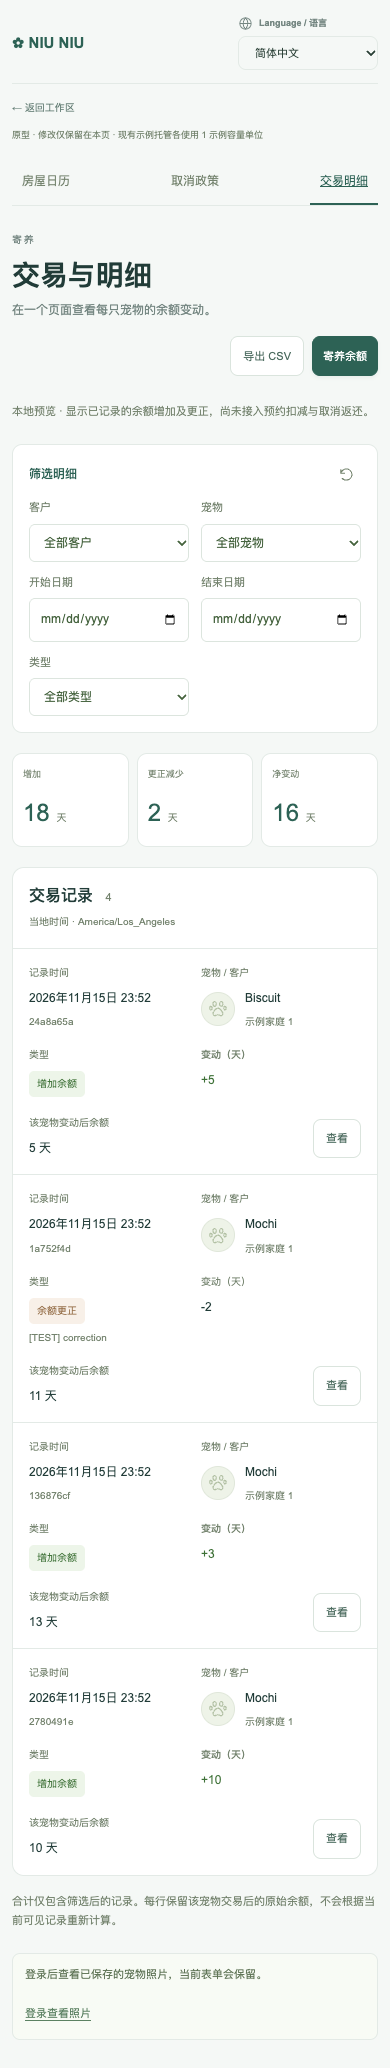
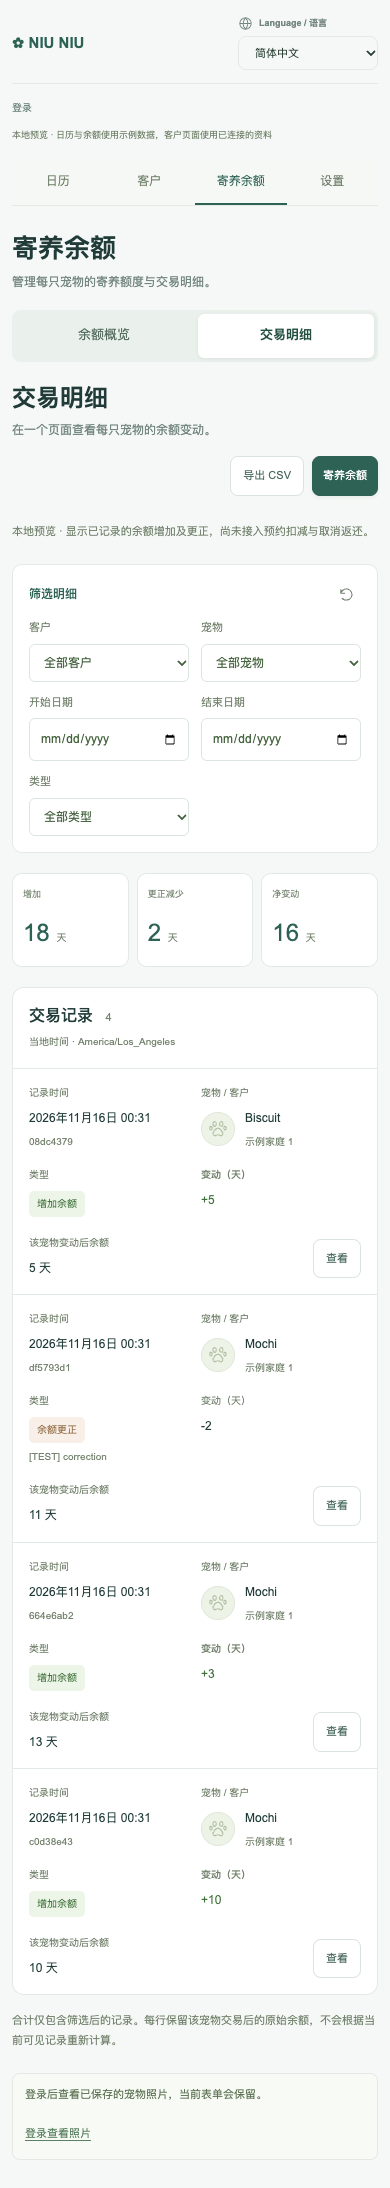
Move statements into Balances and simplify Settings
* Move statements into Balances and simplify Settings

* Record merged balance statement navigation review

diff --git a/apps/web/src/pet-balances.tsx b/apps/web/src/pet-balances.tsx
@@ -5,9 +5,9 @@ import {PetProfileAvatar,PhotoSignIn} from './calendar-pet-photos';
 import UnsavedChanges,{confirmDiscardChanges} from './unsaved-changes';
 import {balanceKey,changePetBalance,plannedDays,validBalanceDates,type BalancePolicyTemplate,type PetBalance,type BalanceService,type BalanceChange,type PlannedCoverage} from './pet-balance';
 export type BalancePet={name:string;customer:string;customerName:string;species:string};
-export default function PetBalances({pets,accounts,plans,initial,onClose,onSave,templates,onSaveTemplate,embedded=false}:{embedded?:boolean;templates:BalancePolicyTemplate[];onSaveTemplate:(template:BalancePolicyTemplate)=>void;pets:BalancePet[];accounts:Record<string,PetBalance>;plans:PlannedCoverage[];initial?:{pet:string;service:BalanceService};onClose:()=>void;onSave:(change:BalanceChange)=>void}){
+export default function PetBalances({pets,accounts,plans,initial,onClose,onSave,templates,onSaveTemplate,embedded=false,onSelectPet}:{onSelectPet?:(pet:string)=>void;embedded?:boolean;templates:BalancePolicyTemplate[];onSaveTemplate:(template:BalancePolicyTemplate)=>void;pets:BalancePet[];accounts:Record<string,PetBalance>;plans:PlannedCoverage[];initial?:{pet:string;service:BalanceService};onClose:()=>void;onSave:(change:BalanceChange)=>void}){
  const {i18n}=useTranslation(),zh=i18n.language==='zh',t=(en:string,cn:string)=>zh?cn:en;
- const [customer,setCustomer]=React.useState(initial?pets.find(p=>p.name===initial.pet)?.customer||'all':'all'),[pet,setPet]=React.useState(initial?.pet||pets[0]?.name||''),[service]=React.useState<BalanceService>('boarding');
+ const [customer,setCustomer]=React.useState(embedded?'all':initial?pets.find(p=>p.name===initial.pet)?.customer||'all':'all'),[pet,setPet]=React.useState(initial?.pet||pets[0]?.name||''),[service]=React.useState<BalanceService>('boarding');
  const [editing,setEditing]=React.useState(false),[mode,setMode]=React.useState('add'),[amount,setAmount]=React.useState(''),[reason,setReason]=React.useState(''),[from,setFrom]=React.useState(''),[through,setThrough]=React.useState(''),[template,setTemplate]=React.useState(''),[templateName,setTemplateName]=React.useState(''),[error,setError]=React.useState('');
  const form=React.useRef<HTMLFormElement>(null),op=React.useRef(''),version=React.useRef(0);
  const account=accounts[balanceKey(pet,service)],planned=plannedDays(plans,pet,service),dirty=editing&&!!(amount||reason||from!==(account?.validFrom||'')||through!==(account?.validThrough||'')||templateName);
@@ -18,9 +18,10 @@ export default function PetBalances({pets,accounts,plans,initial,onClose,onSave,
  function closeEditor(){if(confirmDiscardChanges(i18n.language,form.current))setEditing(false);}
  function save(event:React.FormEvent){event.preventDefault();const delta=(mode==='remove'?-1:1)*Number(amount);const change:BalanceChange={id:op.current,pet,service,version:version.current,delta,reason,validFrom:from,validThrough:through};try{changePetBalance(account,change,plans,new Date().toISOString());onSave(change);setEditing(false);setError('');}catch(e){setError(messages[(e as Error).message]||messages.adjustment);}}
  function saveTemplate(){if(!templateName.trim()||!validBalanceDates(from,through)){setError(t('Name the template and choose a valid date range.','请填写模板名称及有效日期范围。'));return;}const item={id:crypto.randomUUID(),name:templateName.trim(),service,validFrom:from,validThrough:through};onSaveTemplate(item);setTemplate(item.id);setTemplateName('');setError('');}
+ React.useEffect(()=>{onSelectPet?.(pet);},[pet,onSelectPet]);
  const selectedPet=pets.find(p=>p.name===pet);
  const editorForm=<form ref={form} className="hc-settings-form hc-balance-editor" onInvalidCapture={e=>{const policy=(e.target as HTMLElement).closest('details');if(policy)policy.open=true;}} onSubmit={save}><UnsavedChanges active={dirty}/><div className="hc-balance-editor-heading"><h4>{t('Add balance','增加余额')}</h4><p>{t('Boarding credit for this pet.','此宠物的寄养额度。')}</p></div>{error&&<p className="hc-range-feedback" role="alert">{error}</p>}<div className="hc-time-fields">{account&&<label>{t('Adjustment','调整方式')}<select aria-label={t('Adjustment','调整方式')} value={mode} onChange={e=>setMode(e.target.value)}><option value="add">{t('Add days','增加天数')}</option>{account&&<option value="remove">{t('Remove days','减少天数')}</option>}</select></label>}<label>{mode==='remove'?t('Days to remove','减少天数'):t('Days to add','增加天数')}<input aria-label={t('Days','天数')} type="number" required min={account?0:1} step="1" value={amount} onChange={e=>setAmount(e.target.value)}/></label></div><label>{t('Reason (optional)','原因（选填）')}<input aria-label={t('Reason','原因')} maxLength={500} value={reason} onChange={e=>setReason(e.target.value)} placeholder={t('Why is this balance changing?','此次余额调整的原因是什么？')}/></label><details className="hc-balance-policy" key={`${pet}-${service}-${editing}`} open={!account}><summary>{t('Coverage policy','使用规则')}<small>{t('Choose a template or set dates','选择模板或填写日期')}</small></summary><label>{t('Policy template','规则模板')}<select aria-label={t('Policy template','规则模板')} value={template} onChange={e=>{setTemplate(e.target.value);const item=templates.find(p=>p.id===e.target.value);if(item){setFrom(item.validFrom);setThrough(item.validThrough);}}}><option value="">{t('Custom dates','自定义日期')}</option>{templates.filter(p=>p.service===service).map(p=><option key={p.id} value={p.id}>{p.name}</option>)}</select></label><div className="hc-time-fields"><label>{t('Valid from','有效起始日')}<input required type="date" value={from} onChange={e=>{setFrom(e.target.value);setTemplate('');}}/></label><label>{t('Valid through','有效截止日')}<input required type="date" min={from} value={through} onChange={e=>{setThrough(e.target.value);setTemplate('');}}/></label></div><details className="hc-template-create"><summary>{t('Save dates as a template','将日期保存为模板')}</summary><div className="hc-template-save"><label>{t('New template name','新模板名称')}<input maxLength={80} value={templateName} onChange={e=>setTemplateName(e.target.value)} placeholder={t('Name this date range','为此日期范围命名')}/></label><button type="button" className="hc-manage" onClick={saveTemplate}>{t('Save template','保存模板')}</button></div></details><p className="hc-balance-preview">{t('Templates copy dates into this balance. Later changes do not alter other balances.','模板将日期复制到当前余额，后续修改不影响其他余额。')}</p></details><div className="hc-settings-actions"><button className="hc-manage" type="button" onClick={closeEditor}>{t('Cancel','取消')}</button><button className="hc-apply" type="submit">{mode==='remove'?t('Save adjustment','保存调整'):t('Add balance','增加余额')}</button></div></form>;
- const content=<><div className="hc-balance-layout"><aside className="hc-balance-sidebar">{!embedded&&<><PhotoSignIn/><a className="hc-finance-link" href={'#/transactions?pet='+encodeURIComponent(pet)} onClick={e=>{if(window.location.hash==='#/transactions?pet='+encodeURIComponent(pet)){e.preventDefault();leave();}}}>{t('View statement','查看交易明细')} ↗</a><a className="hc-finance-link" href="#/cancellation-policy">{t('Cancellation policy','取消政策')} ↗</a></>}{embedded&&<div className="hc-balance-sidebar-heading"><h2>{t('Pets','宠物')}</h2><span>{pets.filter(p=>customer==='all'||p.customer===customer).length}</span></div>}<label>{t('Customer','客户')}<select aria-label={t('Balance customer','余额客户')} value={customer} onChange={e=>{if(!confirmDiscardChanges(i18n.language,form.current))return;const value=e.target.value;setCustomer(value);setPet(pets.find(p=>value==='all'||p.customer===value)?.name||'');setEditing(false);}}><option value="all">{t('All customers','全部客户')}</option>{[...new Map(pets.map(p=>[p.customer,p.customerName])).entries()].map(([id,name])=><option key={id} value={id}>{name}</option>)}</select></label><div className="hc-balance-pets" role="group" aria-label={t('Choose a pet','选择宠物')}>{pets.filter(p=>customer==='all'||p.customer===customer).map(p=><button type="button" key={p.name} aria-label={`${t('Balance','余额')}: ${p.name}`} aria-pressed={pet===p.name} onClick={()=>switchPet(p.name)}><PetProfileAvatar name={p.name} className="hc-guest-avatar"/><span><strong>{p.name}</strong><small>{p.customerName}</small></span></button>)}</div>{embedded&&<div className="hc-balance-sidebar-footer"><PhotoSignIn/><a className="hc-finance-link" href={'#/transactions?pet='+encodeURIComponent(pet)} onClick={e=>{if(window.location.hash==='#/transactions?pet='+encodeURIComponent(pet)){e.preventDefault();leave();}}}>{t('View statement','查看交易明细')} ↗</a><a className="hc-finance-link" href="#/cancellation-policy">{t('Cancellation policy','取消政策')} ↗</a></div>}</aside>
+ const content=<><div className="hc-balance-layout"><aside className="hc-balance-sidebar">{!embedded&&<><PhotoSignIn/><a className="hc-finance-link" href={'#/balances?view=statement&pet='+encodeURIComponent(pet)} onClick={e=>{if(window.location.hash==='#/balances?view=statement&pet='+encodeURIComponent(pet)){e.preventDefault();leave();}}}>{t('View statement','查看交易明细')} ↗</a><a className="hc-finance-link" href="#/cancellation-policy">{t('Cancellation policy','取消政策')} ↗</a></>}{embedded&&<div className="hc-balance-sidebar-heading"><h2>{t('Pets','宠物')}</h2><span>{pets.filter(p=>customer==='all'||p.customer===customer).length}</span></div>}<label>{t('Customer','客户')}<select aria-label={t('Balance customer','余额客户')} value={customer} onChange={e=>{if(!confirmDiscardChanges(i18n.language,form.current))return;const value=e.target.value;setCustomer(value);setPet(pets.find(p=>value==='all'||p.customer===value)?.name||'');setEditing(false);}}><option value="all">{t('All customers','全部客户')}</option>{[...new Map(pets.map(p=>[p.customer,p.customerName])).entries()].map(([id,name])=><option key={id} value={id}>{name}</option>)}</select></label><div className="hc-balance-pets" role="group" aria-label={t('Choose a pet','选择宠物')}>{pets.filter(p=>customer==='all'||p.customer===customer).map(p=><button type="button" key={p.name} aria-label={`${t('Balance','余额')}: ${p.name}`} aria-pressed={pet===p.name} onClick={()=>switchPet(p.name)}><PetProfileAvatar name={p.name} className="hc-guest-avatar"/><span><strong>{p.name}</strong><small>{p.customerName}</small></span></button>)}</div>{embedded&&<div className="hc-balance-sidebar-footer"><PhotoSignIn/><a className="hc-finance-link" href={'#/balances?view=statement&pet='+encodeURIComponent(pet)} onClick={e=>{if(window.location.hash==='#/balances?view=statement&pet='+encodeURIComponent(pet)){e.preventDefault();leave();}}}>{t('View statement','查看交易明细')} ↗</a><a className="hc-finance-link" href="#/cancellation-policy">{t('Cancellation policy','取消政策')} ↗</a></div>}</aside>
  <section className="hc-balance-content"><div className="hc-balance-title"><div className="hc-balance-pet-heading">{embedded&&<PetProfileAvatar name={pet} className="hc-balance-selected-photo"/>}<div><p>{selectedPet?.customerName}</p><h3>{pet}</h3></div></div>{(!editing||embedded)&&<button className="hc-apply" onClick={open}>{t('Add balance','增加余额')}</button>}</div>
 
  <p className="hc-balance-preview">{t('Planning preview · No payments, deductions or reservations are saved.','规划预览 · 不保存付款、扣减或预留记录。')}</p>

diff --git a/apps/web/src/house-calendar.tsx b/apps/web/src/house-calendar.tsx
@@ -35,7 +35,8 @@ const initialStays:SampleStay[]=[
 const DAY=86400000;
 export default function HouseCalendar({onLanguageChange,customers,personal,account,identityEpoch=0}:{onLanguageChange:(lang:'en'|'zh')=>void;customers?:React.ReactNode;personal?:React.ReactNode;account?:React.ReactNode;identityEpoch?:number}){
  const {i18n}=useTranslation(),zh=i18n.language==='zh',t=(en:string,cn:string)=>zh?cn:en;
- const route=window.location.hash,view=route.split('?')[0]==='#/cancellation-policy'?'policy':route.split('?')[0]==='#/transactions'?'statement':route.split('?')[0]==='#/balances'?'balances':route.split('?')[0]==='#/customers'?'customers':route.split('?')[0]==='#/settings'?'settings':route.split('?')[0]==='#/personal'?'personal':'calendar';
+ const route=window.location.hash,path=route.split('?')[0],routeParams=new URLSearchParams(route.split('?')[1]||''),view=path==='#/cancellation-policy'?'policy':path==='#/transactions'||(path==='#/balances'&&routeParams.get('view')==='statement')?'statement':path==='#/balances'?'balances':path==='#/customers'?'customers':path==='#/settings'?'settings':path==='#/personal'?'personal':'calendar';
+ const [balancePagePet,setBalancePagePet]=React.useState('');
  const [cancellationPolicy,setCancellationPolicy]=React.useState(initialCancellationPolicy);
  const [stays,setStays]=React.useState<Stay[]>(()=>initialStays.map((s,i)=>({...s,id:'sample-'+i,units:1})));
  const [locations,setLocations]=React.useState([{id:1,rooms:[1,2,3]},{id:2,rooms:[1,2]}]);
@@ -89,13 +90,13 @@ export default function HouseCalendar({onLanguageChange,customers,personal,accou
  {account}
  <p className="hc-demo">{t('Local preview · Calendar and balances use sample data. Customers use connected records.','本地预览 · 日历与余额使用示例数据，客户页面使用已连接的资料')}</p>
  <nav className="hc-work-nav" aria-label={t('Workspace','工作区')}>{[
- ['#/house-calendar','Calendar','日历','calendar'],['#/customers','Customers','客户','customers'],['#/balances','Balances','寄养余额','balances'],['#/transactions','Statement','交易明细','statement'],['#/settings','Settings','设置','settings']
- ].map(([href,en,cn,key])=><a key={key} href={href} aria-current={view===key||(key==='settings'&&view==='policy')?'page':undefined}>{t(en,cn)}</a>)}</nav>
+ ['#/house-calendar','Calendar','日历','calendar'],['#/customers','Customers','客户','customers'],['#/balances','Balances','寄养余额','balances'],['#/settings','Settings','设置','settings']
+ ].map(([href,en,cn,key])=><a key={key} href={href} aria-current={view===key||(key==='balances'&&view==='statement')||(key==='settings'&&view==='policy')?'page':undefined}>{t(en,cn)}</a>)}</nav>
  <div data-retained-workspace hidden={view!=='customers'}>{customers||<a className="hc-manage" href="#/login">{t('Sign in to manage customers','登录以管理客户')}</a>}</div>
  <div data-retained-workspace hidden={view!=='personal'}><h1>{t('My profile and pets','我的资料与宠物')}</h1>{personal}</div>
- {view==='balances'&&<section><div className="hc-title"><div><h1>{t('Balances','寄养余额')}</h1><p>{t('Boarding credits and adjustments for each pet.','管理每只宠物的寄养额度与调整。')}</p></div></div><PetBalances embedded templates={balanceTemplates} onSaveTemplate={item=>setBalanceTemplates(previous=>[...previous,item])} pets={roster} accounts={balances} plans={balancePlans} onClose={()=>{}} onSave={saveBalance}/></section>}
- <div hidden={view!=='settings'}><div className="hc-title"><div><h1>{t('Settings','设置')}</h1><p>{t('Manage locations and boarding rules.','管理房屋及寄养规则。')}</p></div></div><div className="hc-settings-cards"><section><h2>{t('Houses and rooms','房屋与房间')}</h2><p>{t('Saved houses are separate from the sample calendar. Room setup is still in progress.','保存的房屋与示例日历分开，房间设置仍在开发中。')}</p>{admin?<button className="hc-manage" onClick={()=>setManage(true)}>{t('Manage houses and rooms','管理房屋与房间')}</button>:<a href="#/login">{t('Sign in to manage houses','登录以管理房屋')}</a>}</section><section><h2>{t('Cancellation policy','取消政策')}</h2><p>{t('Review notice periods and credit restoration terms.','查看取消期限及额度返还规则。')}</p><a className="hc-manage" href="#/cancellation-policy">{t('Cancellation policy','取消政策')}</a></section></div></div>
- {view==='statement'&&<BoardingStatement key={route} accounts={balances} pets={roster} initialPet={new URLSearchParams(route.split('?')[1]||'').get('pet')||undefined} onManageBalance={pet=>setBalanceView({pet,service:'boarding'})}/>}
+ {(view==='balances'||view==='statement')&&<section className="hc-balances-workspace"><div className="hc-title"><div><h1>{t('Balances','寄养余额')}</h1><p>{t('Boarding credits and statements for each pet.','管理每只宠物的寄养额度与交易明细。')}</p></div></div><nav className="hc-balance-views" aria-label={t('Balance views','余额视图')}><a href={'#/balances'+(balancePagePet?'?pet='+encodeURIComponent(balancePagePet):'')} aria-current={view==='balances'?'page':undefined}>{t('Overview','余额概览')}</a><a href="#/balances?view=statement" aria-current={view==='statement'?'page':undefined}>{t('Statement','交易明细')}</a></nav>{view==='balances'?<PetBalances embedded templates={balanceTemplates} onSaveTemplate={item=>setBalanceTemplates(previous=>[...previous,item])} pets={roster} accounts={balances} plans={balancePlans} initial={{pet:routeParams.get('pet')||balancePagePet,service:'boarding'}} onSelectPet={setBalancePagePet} onClose={()=>{}} onSave={saveBalance}/>:<BoardingStatement embedded key={route} accounts={balances} pets={roster} initialPet={routeParams.get('pet')||undefined} onManageBalance={pet=>setBalanceView({pet,service:'boarding'})}/>}</section>}
+ <div hidden={view!=='settings'}><div className="hc-title"><div><h1>{t('Settings','设置')}</h1><p>{t('Manage boarding rules.','管理寄养规则。')}</p></div></div><div className="hc-settings-cards"><section><h2>{t('Cancellation policy','取消政策')}</h2><p>{t('Review notice periods and credit restoration terms.','查看取消期限及额度返还规则。')}</p><a className="hc-manage" href="#/cancellation-policy">{t('Cancellation policy','取消政策')}</a></section></div></div>
+
  {view==='policy'&&<CancellationPolicyPage policy={cancellationPolicy} onSave={setCancellationPolicy}/>}
  <div hidden={view!=='calendar'}>
  <div className="hc-title"><div><h1>{t('House calendar','房屋日历')}</h1><p>{t('Stays and check-ins, by room.','按房间查看托管与入住。')}</p></div><div className="hc-title-actions"><div className="hc-main-actions"><button className="hc-manage" onClick={()=>setBalanceView({pet:'',service:'boarding'})}>{t('Boarding balances','寄养余额')}</button><button className="hc-apply hc-add-placement" onClick={()=>setAssignment(null)}><Icon name="plus"/>{t('Add pet to room','添加宠物到房间')}</button><button className="hc-manage hc-add-house" title={t('Add house','添加房屋')} aria-label={t('Add house','添加房屋')} onClick={()=>setSettings({house:nextId.current++,creating:true})}><Icon name="plus"/>{t('Add house','添加房屋')}</button>{admin?<button className="hc-settings hc-top-icon" title={t('Manage houses & rooms','管理房屋与房间')} aria-label={t('Manage houses & rooms','管理房屋与房间')} onClick={()=>setManage(true)}><Icon name="settings"/></button>:<a className="hc-manage" href="#/login">{t('Sign in to manage houses','登录以管理房屋')}</a>}</div><div className="hc-live"><span/> {t('Local time','当地时间')} · {now.toLocaleTimeString(locale,{hour:'2-digit',minute:'2-digit'})}<small>{t('Sample timezone','示例时区')}: {Intl.DateTimeFormat().resolvedOptions().timeZone}</small></div></div></div>

diff --git a/apps/web/src/boarding-statement-page.tsx b/apps/web/src/boarding-statement-page.tsx
@@ -5,14 +5,14 @@ import {statementEntries,filterStatement,statementTotals,statementCsv,validState
 import {PetProfileAvatar,CalendarPhotoCredits} from './calendar-pet-photos';
 import Icon from './icons';
 import Modal from './modal';
-export default function BoardingStatement({accounts,pets,initialPet,onManageBalance}:{accounts:Record<string,PetBalance>;pets:StatementPet[];initialPet?:string;onManageBalance:(pet:string)=>void}){
+export default function BoardingStatement({accounts,pets,initialPet,onManageBalance,embedded=false}:{embedded?:boolean;accounts:Record<string,PetBalance>;pets:StatementPet[];initialPet?:string;onManageBalance:(pet:string)=>void}){
  const {i18n}=useTranslation(),zh=i18n.language==='zh',t=(en:string,cn:string)=>zh?cn:en,locale=zh?'zh-CN':'en-US';
  const [filters,setFilters]=React.useState(()=>({...emptyStatementFilters,pet:pets.some(p=>p.name===initialPet)?initialPet!:'all'})),[selected,setSelected]=React.useState<StatementEntry|null>(null);
  const entries=statementEntries(accounts,pets),rows=filterStatement(entries,filters),totals=statementTotals(rows),valid=validStatementRange(filters.from,filters.through),filtered=JSON.stringify(filters)!==JSON.stringify(emptyStatementFilters);
  const labels:Record<StatementKind,string>={added:t('Balance added','增加余额'),correction:t('Balance correction','余额更正'),terms:t('Policy update','规则更新')};
  const number=(value:number)=>value.toLocaleString(locale),time=(value:string)=>new Date(value).toLocaleString(locale,{year:'numeric',month:'short',day:'numeric',hour:'2-digit',minute:'2-digit'});
  function download(){const csv=statementCsv(rows,[t('Recorded at (UTC)','记录时间（UTC）'),t('Reference','流水号'),t('Customer','客户'),t('Pet','宠物'),t('Activity','类型'),t('Change (days)','变动（天）'),t('Before (days)','变动前（天）'),t('After (days)','变动后（天）'),t('Note','备注')],labels);const url=URL.createObjectURL(new Blob([csv],{type:'text/csv;charset=utf-8'}));const link=document.createElement('a');link.href=url;link.download='boarding-statement-'+new Date().toISOString().slice(0,10)+'.csv';link.click();setTimeout(()=>URL.revokeObjectURL(url),1000);}
- return <section className="hc-finance-page hc-statement-page"><div className="hc-title"><div><p className="hc-page-eyebrow">{t('BOARDING','寄养')}</p><h1>{t('Transactions & statement','交易与明细')}</h1><p>{t('Balance activity for every pet, in one place.','在一个页面查看每只宠物的余额变动。')}</p></div><div className="hc-statement-actions"><button className="hc-manage" disabled={!rows.length||!valid} onClick={download}>{t('Export CSV','导出 CSV')}</button><button className="hc-apply" onClick={()=>onManageBalance(filters.pet==='all'?'':filters.pet)}>{t('Boarding balances','寄养余额')}</button></div></div>
+ return <section className="hc-finance-page hc-statement-page"><div className="hc-title"><div>{!embedded&&<p className="hc-page-eyebrow">{t('BOARDING','寄养')}</p>}{embedded?<h2>{t('Statement','交易明细')}</h2>:<h1>{t('Statement','交易明细')}</h1>}<p>{t('Balance activity for every pet, in one place.','在一个页面查看每只宠物的余额变动。')}</p></div><div className="hc-statement-actions"><button className="hc-manage" disabled={!rows.length||!valid} onClick={download}>{t('Export CSV','导出 CSV')}</button><button className="hc-apply" onClick={()=>onManageBalance(filters.pet==='all'?'':filters.pet)}>{t('Boarding balances','寄养余额')}</button></div></div>
  <p className="hc-statement-note">{t('Local preview · Recorded balance additions and corrections. Booking charges and cancellation restorations are not connected yet.','本地预览 · 显示已记录的余额增加及更正，尚未接入预约扣减与取消返还。')}</p>
  <section className="hc-statement-filters" aria-label={t('Statement filters','明细筛选')}><div className="hc-filters-heading"><h2>{t('Filter statement','筛选明细')}</h2><button className="hc-clear" aria-label={t('Reset statement filters','重置明细筛选')} title={t('Reset statement filters','重置明细筛选')} disabled={!filtered} onClick={()=>setFilters({...emptyStatementFilters})}><Icon name="reset"/></button></div><div><label>{t('Customer','客户')}<select aria-label={t('Statement customer','明细客户')} value={filters.customer} onChange={e=>setFilters({...filters,customer:e.target.value,pet:'all'})}><option value="all">{t('All customers','全部客户')}</option>{[...new Map(pets.map(p=>[p.customer,p.customerName])).entries()].map(([id,name])=><option key={id} value={id}>{name}</option>)}</select></label><label>{t('Pet','宠物')}<select aria-label={t('Statement pet','明细宠物')} value={filters.pet} onChange={e=>setFilters({...filters,pet:e.target.value})}><option value="all">{t('All pets','全部宠物')}</option>{pets.filter(p=>filters.customer==='all'||p.customer===filters.customer).map(p=><option key={p.name} value={p.name}>{p.name}</option>)}</select></label><label>{t('From','开始日期')}<input aria-label={t('Statement from','明细开始日期')} type="date" value={filters.from} onChange={e=>setFilters({...filters,from:e.target.value})}/></label><label>{t('Through','结束日期')}<input aria-label={t('Statement through','明细结束日期')} type="date" value={filters.through} onChange={e=>setFilters({...filters,through:e.target.value})}/></label><label>{t('Activity','类型')}<select aria-label={t('Statement activity','明细类型')} value={filters.kind} onChange={e=>setFilters({...filters,kind:e.target.value})}><option value="all">{t('All activity','全部类型')}</option>{Object.entries(labels).map(([key,label])=><option key={key} value={key}>{label}</option>)}</select></label></div>{!valid&&<p role="alert" className="hc-range-feedback">{t('Choose a valid date range with the start on or before the end.','请选择有效日期范围，开始日期不能晚于结束日期。')}</p>}</section>
  <div className="hc-statement-totals" aria-label={t('Filtered totals','筛选后合计')}><div><small>{t('Added','增加')}</small><strong>{valid?number(totals.added):'—'} <span>{t('days','天')}</span></strong></div><div><small>{t('Removed by corrections','更正减少')}</small><strong>{valid?number(totals.removed):'—'} <span>{t('days','天')}</span></strong></div><div><small>{t('Net change','净变动')}</small><strong>{valid?number(totals.net):'—'} <span>{t('days','天')}</span></strong></div></div>

diff --git a/tests/browser/boarding-statement.spec.ts b/tests/browser/boarding-statement.spec.ts
@@ -4,7 +4,7 @@ test('statement shows recorded per-pet changes, exports filtered rows and preser
  await page.setViewportSize({width:1440,height:1050});await page.goto('/#/house-calendar');await page.getByRole('button',{name:'Boarding balances',exact:true}).click();
  const add=async(days:string)=>{await page.getByRole('button',{name:'Add balance',exact:true}).click();await page.getByLabel('Days',{exact:true}).fill(days);if(await page.getByLabel('Valid from',{exact:true}).isVisible()){await page.getByLabel('Valid from',{exact:true}).fill('2026-01-01');await page.getByLabel('Valid through',{exact:true}).fill('2027-12-31');}await page.getByRole('button',{name:'Add balance',exact:true}).click();};
  await add('10');await add('3');await page.getByRole('button',{name:'Add balance',exact:true}).click();await page.getByLabel('Adjustment',{exact:true}).selectOption('remove');await page.getByLabel('Days',{exact:true}).fill('2');await page.getByLabel('Reason',{exact:true}).fill('[TEST] correction');await page.getByRole('button',{name:'Save adjustment',exact:true}).click();
- await page.getByRole('button',{name:'Balance: Biscuit',exact:true}).click();await add('5');await page.getByRole('button',{name:'Balance: Mochi',exact:true}).click();await page.getByRole('link',{name:'View statement'}).click();await expect(page.getByRole('heading',{name:'Transactions & statement',exact:true})).toBeVisible();await expect(page.getByLabel('Statement pet',{exact:true})).toHaveValue('Mochi');await expect(page.locator('.hc-statement-row')).toHaveCount(3);
+ await page.getByRole('button',{name:'Balance: Biscuit',exact:true}).click();await add('5');await page.getByRole('button',{name:'Balance: Mochi',exact:true}).click();await page.getByRole('link',{name:'View statement'}).click();await expect(page.getByRole('heading',{name:'Statement',exact:true})).toBeVisible();await expect(page).toHaveURL(/#\/balances\?view=statement&pet=Mochi$/);await expect(page.getByRole('navigation',{name:'Workspace'}).getByRole('link',{name:'Balances',exact:true})).toHaveAttribute('aria-current','page');await expect(page.getByLabel('Statement pet',{exact:true})).toHaveValue('Mochi');await expect(page.locator('.hc-statement-row')).toHaveCount(3);
  await page.getByLabel('Statement activity',{exact:true}).selectOption('correction');await expect(page.locator('.hc-statement-row')).toHaveCount(1);await expect(page.locator('.hc-statement-row td').nth(4)).toHaveText('11 days');
  await page.getByRole('button',{name:/View transaction:/}).click();await expect(page.getByRole('dialog').getByText('13 → 11 days',{exact:true})).toBeVisible();await expect(page.getByRole('dialog').getByText('[TEST] correction',{exact:true})).toBeVisible();await page.getByRole('button',{name:'Close',exact:true}).click();
  const downloadEvent=page.waitForEvent('download');await page.getByRole('button',{name:'Export CSV',exact:true}).click();const download=await downloadEvent;const csv=await readFile((await download.path())!,'utf8');expect(csv).toContain('"Balance correction",-2,13,11');expect(csv).not.toContain('Biscuit');
@@ -12,6 +12,6 @@ test('statement shows recorded per-pet changes, exports filtered rows and preser
  await page.setViewportSize({width:820,height:1000});expect(await page.evaluate(()=>document.documentElement.scrollWidth<=innerWidth)).toBe(true);
  await page.getByLabel('Statement customer',{exact:true}).selectOption('2');await expect(page.getByRole('heading',{name:'No matching transactions',exact:true})).toBeVisible();await page.getByRole('button',{name:'Clear filters',exact:true}).click();
  await page.getByLabel('Statement from',{exact:true}).fill('2027-01-02');await page.getByLabel('Statement through',{exact:true}).fill('2027-01-01');await expect(page.getByRole('alert')).toBeVisible();await expect(page.getByRole('button',{name:'Export CSV',exact:true})).toBeDisabled();await page.getByRole('button',{name:'Reset statement filters',exact:true}).click();
- await page.getByRole('link',{name:'Settings',exact:true}).click();await page.getByRole('link',{name:'Cancellation policy',exact:true}).click();await page.getByRole('link',{name:'Statement',exact:true}).click();await expect(page.locator('.hc-statement-row')).toHaveCount(4);
- await page.setViewportSize({width:390,height:844});await page.locator('.language-selector select').selectOption('zh');await expect(page.getByRole('heading',{name:'交易与明细',exact:true})).toBeVisible();expect(await page.evaluate(()=>document.documentElement.scrollWidth<=innerWidth)).toBe(true);await page.screenshot({path:'test-results/boarding-statement-mobile-zh.png',fullPage:true});
+ await page.getByRole('link',{name:'Settings',exact:true}).click();await page.getByRole('link',{name:'Cancellation policy',exact:true}).click();await page.getByRole('navigation',{name:'Workspace'}).getByRole('link',{name:'Balances',exact:true}).click();await page.getByRole('navigation',{name:'Balance views'}).getByRole('link',{name:'Statement',exact:true}).click();await expect(page.locator('.hc-statement-row')).toHaveCount(4);
+ await page.setViewportSize({width:390,height:844});await page.locator('.language-selector select').selectOption('zh');await expect(page.getByRole('heading',{name:'交易明细',exact:true})).toBeVisible();expect(await page.evaluate(()=>document.documentElement.scrollWidth<=innerWidth)).toBe(true);await page.screenshot({path:'test-results/boarding-statement-mobile-zh.png',fullPage:true});
 });

diff --git a/tests/browser/integrated-workspace.spec.ts b/tests/browser/integrated-workspace.spec.ts
@@ -1,6 +1,6 @@
 import {test,expect} from '@playwright/test';
 
-test('five ordered tabs connect customer records, balance preview, statement and settings',async({page,request})=>{
+test('four ordered tabs connect customer records, balance preview, statement and settings',async({page,request})=>{
  const email=`integrated-${Date.now()}@example.test`;
  const signup=await request.post('http://127.0.0.1:9099/identitytoolkit.googleapis.com/v1/accounts:signUp?key=demo-key',{data:{email,password:'emulator-only-password',returnSecureToken:true}});
  const {localId}=await signup.json();
@@ -11,7 +11,7 @@ test('five ordered tabs connect customer records, balance preview, statement and
  await page.goto('/#/login');
  await page.evaluate(async({email})=>{const {auth}=await import('/apps/web/src/auth-client.ts');const {signInWithEmailAndPassword}=await import('/node_modules/.vite/deps/firebase_auth.js');await signInWithEmailAndPassword(auth,email,'emulator-only-password');},{email});
  const nav=page.getByRole('navigation',{name:'Workspace',exact:true});
- await expect(nav.getByRole('link')).toHaveText(['Calendar','Customers','Balances','Statement','Settings']);
+ await expect(nav.getByRole('link')).toHaveText(['Calendar','Customers','Balances','Settings']);
  await expect(nav.getByRole('link',{name:'Calendar',exact:true})).toHaveAttribute('aria-current','page');
  await nav.getByRole('link',{name:'Balances',exact:true}).click();
  await expect(page.getByRole('heading',{name:'Balances',exact:true})).toBeVisible();
@@ -23,15 +23,15 @@ test('five ordered tabs connect customer records, balance preview, statement and
  await page.getByRole('dialog').getByRole('button',{name:'Add balance',exact:true}).click();
  await nav.getByRole('link',{name:'Customers',exact:true}).click();await expect(page.getByRole('button',{name:'Add customer',exact:true})).toBeVisible();
  await page.getByRole('link',{name:'My profile and pets',exact:true}).click();await page.getByRole('textbox',{name:'Your name',exact:true}).fill('Retained draft');
- await nav.getByRole('link',{name:'Settings',exact:true}).click();await page.getByRole('link',{name:'Cancellation policy',exact:true}).click();
+ await nav.getByRole('link',{name:'Settings',exact:true}).click();await expect(page.getByRole('heading',{name:'Houses and rooms',exact:true})).toHaveCount(0);await page.getByRole('link',{name:'Cancellation policy',exact:true}).click();
  await expect(nav.getByRole('link',{name:'Settings',exact:true})).toHaveAttribute('aria-current','page');
- await nav.getByRole('link',{name:'Statement',exact:true}).click();await expect(page.locator('.hc-statement-row')).toHaveCount(1);await expect(page.locator('.hc-statement-row')).toContainText('12 days');
+ await nav.getByRole('link',{name:'Balances',exact:true}).click();await page.getByRole('navigation',{name:'Balance views',exact:true}).getByRole('link',{name:'Statement',exact:true}).click();await expect(page.locator('.hc-statement-row')).toHaveCount(1);await expect(page.locator('.hc-statement-row')).toContainText('12 days');
  await nav.getByRole('link',{name:'Balances',exact:true}).click();await expect(page.locator('.hc-balance-metrics strong').first()).toHaveText('12');
  await page.getByRole('link',{name:'My profile and pets',exact:true}).click();await expect(page.getByRole('textbox',{name:'Your name',exact:true})).toHaveValue('Retained draft');
  await page.getByRole('textbox',{name:'Your name',exact:true}).fill('');
  await page.setViewportSize({width:1440,height:1000});await nav.getByRole('link',{name:'Settings',exact:true}).click();await page.screenshot({path:'test-results/integrated-workspace-desktop.png',fullPage:true});
  await page.setViewportSize({width:390,height:844});await page.getByRole('combobox',{name:'Language / 语言',exact:true}).selectOption('zh');
- await expect(page.getByRole('navigation').getByRole('link')).toHaveText(['日历','客户','寄养余额','交易明细','设置']);
+ await expect(page.getByRole('navigation').getByRole('link')).toHaveText(['日历','客户','寄养余额','设置']);
  expect(await page.evaluate(()=>document.documentElement.scrollWidth<=innerWidth)).toBe(true);
  await page.screenshot({path:'test-results/integrated-workspace-mobile-zh.png',fullPage:true});
 });

diff --git a/apps/web/src/house-calendar.css b/apps/web/src/house-calendar.css
@@ -175,7 +175,7 @@
 .hc-statement-filters .hc-filters-heading{flex-direction:row}.hc-statement-table-wrap{overflow-x:auto}.hc-statement-table{min-width:760px}@media(max-width:700px){.hc-statement-table{min-width:0}}
 
 /* One navigation order across the local administrator workspace. */
-.hc-account{display:flex;align-items:center;justify-content:flex-end;gap:12px;flex-wrap:wrap;margin:12px 0;color:#56635d;font-size:13px}.hc-account>span{overflow-wrap:anywhere;min-width:0}.hc-account .icon-button{width:40px;height:40px}.hc-work-nav{display:flex;gap:8px}.hc-work-nav a{flex:1;text-align:center;min-height:44px;display:flex;align-items:center;justify-content:center}.hc-balance-page{background:#fff;border:1px solid #dce3de;border-radius:12px;overflow:hidden}.hc-balance-page .hc-balance-layout{min-height:550px}.hc-settings-cards{display:grid;grid-template-columns:repeat(2,minmax(0,1fr));gap:20px}.hc-settings-cards>section{padding:24px;background:#fff;border:1px solid #dce3de;border-radius:12px}.hc-settings-cards h2{font-size:20px}.hc-settings-cards p{color:#56635d;line-height:1.6}.hc .portal-admin .customer-section{margin-top:24px}.hc [hidden]{display:none!important}
+.hc-account{display:flex;align-items:center;justify-content:flex-end;gap:12px;flex-wrap:wrap;margin:12px 0;color:#56635d;font-size:13px}.hc-account>span{overflow-wrap:anywhere;min-width:0}.hc-account .icon-button{width:40px;height:40px}.hc-work-nav{display:flex;gap:8px}.hc-work-nav a{flex:1;text-align:center;min-height:44px;display:flex;align-items:center;justify-content:center}.hc-balance-page{background:#fff;border:1px solid #dce3de;border-radius:12px;overflow:hidden}.hc-balance-page .hc-balance-layout{min-height:550px}.hc-settings-cards{display:grid;grid-template-columns:minmax(0,640px);gap:20px}.hc-settings-cards>section{padding:24px;background:#fff;border:1px solid #dce3de;border-radius:12px}.hc-settings-cards h2{font-size:20px}.hc-settings-cards p{color:#56635d;line-height:1.6}.hc .portal-admin .customer-section{margin-top:24px}.hc [hidden]{display:none!important}
 @media(max-width:600px){.hc-work-nav{gap:0;position:sticky;top:0;z-index:5;background:#f6f8f5}.hc-work-nav a{padding:12px 3px;font-size:12px;min-width:0}.hc-settings-cards{grid-template-columns:1fr}.hc-account{font-size:12px}.hc-balance-page .hc-balance-layout{min-height:0}}
 
 /* Full balance page: comfortable selection, readable summary, focused edits. */
@@ -247,3 +247,9 @@
  .hc-balance-page .hc-balance-history>div>small{grid-column:2;margin:0;white-space:normal}
  .hc-balance-edit-dialog .hc-settings-actions{bottom:-20px}
 }
+
+.hc-balance-views{display:flex;gap:6px;width:max-content;max-width:100%;padding:4px;margin:0 0 24px;background:#eaf0eb;border-radius:9px;font-size:13px}
+.hc-balance-views a{display:flex;align-items:center;justify-content:center;min-height:40px;padding:9px 20px;border-radius:6px;color:#536c5e}
+.hc-balance-views a[aria-current=page]{background:#fff;color:#244f41;font-weight:600;box-shadow:0 1px 4px #244f4114}
+.hc-balances-workspace>.hc-statement-page>.hc-title h2{font-size:24px;font-weight:600;line-height:1.3;margin:0 0 8px}
+@media(max-width:600px){.hc-balance-views{width:100%;margin-bottom:20px}.hc-balance-views a{flex:1;font-size:13px;min-height:44px}}

diff --git a/tests/browser/balances-layout.spec.ts b/tests/browser/balances-layout.spec.ts
@@ -11,6 +11,7 @@ test('balances page fits desktop and phones with focused edits and retained hist
  await page.getByLabel('Reason',{exact:true}).fill('[TEST] Initial boarding credit');
  page.once('dialog',d=>d.dismiss());await page.keyboard.press('Escape');await expect(editor).toBeVisible();await expect(page.getByLabel('Days',{exact:true})).toHaveValue('30');
  await editor.getByRole('button',{name:'Add balance',exact:true}).click();await expect(editor).toHaveCount(0);await expect(panel.getByRole('button',{name:'Add balance',exact:true})).toBeFocused();await expect(panel.locator('.hc-balance-metrics strong').first()).toHaveText('30');await expect(panel.locator('.hc-balance-history')).toContainText('[TEST] Initial boarding credit');
+ await page.getByRole('button',{name:'Balance: Miso',exact:true}).click();await page.getByRole('navigation',{name:'Balance views'}).getByRole('link',{name:'Statement',exact:true}).click();await page.getByRole('navigation',{name:'Balance views'}).getByRole('link',{name:'Overview',exact:true}).click();await expect(page.getByRole('button',{name:'Balance: Miso',exact:true})).toHaveAttribute('aria-pressed','true');await page.getByRole('button',{name:'Balance: Mochi',exact:true}).click();
  await page.screenshot({path:'test-results/balances-layout-desktop.png',fullPage:true});
  for(const width of [820,700,390,320]){
   await page.setViewportSize({width,height:900});expect(await page.evaluate(()=>document.documentElement.scrollWidth<=innerWidth)).toBe(true);

diff --git a/docs/session-handoff.md b/docs/session-handoff.md
@@ -1,5 +1,11 @@
 # Session handoff — 2026-10-22
 
+## Statement merged into Balances; Settings simplified — 2026-11-16
+
+Latest owner request: remove Houses and rooms from Settings and merge Statement into Balances. Branch feat/balances-statement-navigation starts from merged layout PR#55 (e262b2a, GitHub Verified). Main navigation is now Calendar / Customers / Balances / Settings. Balances has Overview and Statement subviews; internal statement links use #/balances?view=statement with optional pet query. Existing #/transactions links still open the same nested statement and select Balances. Overview retains selected pet across subviews without narrowing the page customer list; pet-scoped calendar balance dialogs remain unchanged. Shared balances/history, statement filters/detail dialogs/CSV and draft guards remain. Settings now contains only Cancellation policy; saved house management is retained on Calendar. No background, business rule, API, photo or persisted ledger change.
+
+Production build and all22 browser tests validated; coverage includes four-tab order, absent Settings house card, pet-scoped statement links, balance/history retention, selected-pet continuity across subviews, export/detail/filter behavior, existing Calendar house management and bilingual mobile layouts. Actual localhost Chrome clicked into Statement from Balances and opened Settings, confirming only Cancellation policy. Synthetic desktop/mobile statement and Settings screenshots updated. No business records changed, emulators/data reset or deployment. Financial preview limitations and unresolved decisions remain. Preserve room WIP#41, environment PR#24 and dist-dev. Review record: https://github.com/Fifiloveniuniu/niu-niu-family-paws/pull/56. Implementation 5ee8992 is GitHub Verified (valid); consult PR CI/merge status. Routine merge is authorized after checks pass.
+
 ## Balances page layout repair — 2026-11-16
 
 Owner requested fixing Balances page style/layout. Branch fix/balances-page-layout from merged navigation PR#53 (6adf607, GitHub Verified). Full page no longer inherits an unpadded compact dialog: 280px desktop selector sidebar, padded content panel, readable metrics/history, selected pet profile photo, selection counts and secondary links below pet selection. Phones use a horizontal pet strip, stacked metric rows and wrapping history. Full-page Add balance opens the shared form in a focused native dialog with draft guards, existing validation, sticky actions and return focus. Calendar/review balance dialogs retain their existing form layout and behavior. No balance rules/model/API or page background changes.

diff --git a/docs/business-owner-guide.md b/docs/business-owner-guide.md
@@ -188,3 +188,9 @@ Tab changes keep saved preview adjustments, the statement and calendar plans in 
 On the local Balances page, choose a customer and pet in the left sidebar. The selected pet’s photo, recorded days, planned days, available days, coverage dates and adjustment history appear on the right. On phones, swipe the pet row or use the customer filter; balance figures stack into readable rows. Add balance opens a focused dialog; Save records the preview adjustment, and Cancel, Close or Escape protect unsaved edits. Existing calendar balance dialogs still work. This remains a planning preview, with no new real financial operations.
 
 本地寄养余额页面在左侧选择客户与宠物，右侧显示所选宠物照片、记录天数、已计划天数、可计划天数、有效日期及调整记录。手机可横向滑动宠物列表或筛选客户，余额数字逐行显示。“增加余额”打开独立弹窗；取消、关闭或 Esc 会保护未保存修改。日历中的原有余额弹窗仍可使用，目前仍为规划预览。
+
+## Latest navigation — 2026-11-16
+
+The four main tabs are now **Calendar / Customers / Balances / Settings**. Open **Balances → Overview** to manage pet credits, or **Balances → Statement** for transaction filters, details and CSV export. A pet’s View statement shortcut opens this same statement view filtered to that pet. Returning to Overview retains the selected pet. Settings contains Cancellation policy; Houses and rooms has been removed from Settings. House management remains in the Calendar’s gear action. This replaces the earlier five-tab navigation instructions; all planning and financial limitations still apply.
+
+主导航现为 **日历 / 客户 / 寄养余额 / 设置**。在“寄养余额 → 余额概览”管理宠物额度，在“寄养余额 → 交易明细”筛选、查看及导出记录。宠物的“查看交易明细”进入同一视图并筛选该宠物，返回概览保留宠物选择。设置中保留取消政策，不再显示房屋与房间；房屋管理仍可从日历的齿轮入口打开。此说明取代之前的五个主标签说明，规划预览与财务功能限制不变。

diff --git a/docs/architecture.md b/docs/architecture.md
@@ -75,3 +75,7 @@ The dev-only #/transactions route derives an immutable read view from existing p
 In development, Portal owns current authentication and renders one mounted HouseCalendar shell for administrator routes. Ordered navigation is Calendar, Customers, Balances, Statement, Settings; /personal is secondary and /cancellation-policy selects Settings. Customers and Profile remain mounted in hidden route containers to retain drafts. The route guard skips their retained drafts only for internal shell routes, while sign-out/public navigation/login departure still check all drafts. Balance/policy editors continue to require discard confirmation. Role/identity loss removes administrator customer components and clears sample balances/plans/configuration; the user's own Profile stays mounted across same-identity role loss. Backend authorization remains mandatory.
 
 Balances reuses PetBalances as an embedded page or focused dialog, sharing the existing in-memory model/statement. These routes remain development-only, preserving the production portal while the financial workflow and room setup are unfinished. No calendar sample is linked to a saved booking or canonical financial balance. Mobile customer selection scrolls again after the pet list loads, avoiding a focus jump to an incomplete short panel.
+
+## Statement inside Balances — 2026-11-16
+
+Latest local navigation is Calendar, Customers, Balances, Settings. Balances owns Overview and Statement subviews. Canonical statement links use #/balances?view=statement with optional encoded pet scope; legacy #/transactions links still resolve to the same nested statement and select Balances in primary navigation. The existing statement data, validation, details and CSV implementation are reused with a subordinate heading. The selected overview pet survives subview transitions in workspace state; full-page customer filters start at All customers, while pet-scoped dialog behavior is unchanged. Settings exposes cancellation policy only; Calendar retains saved house management. No API, ledger, auth or production-routing change.

diff --git a/docs/requirements.md b/docs/requirements.md
@@ -137,7 +137,7 @@ Proposed cutoff interpretation, awaiting confirmation: at least 14 days before s
 - Preserve entered information through recoverable errors and uncertain-save retries; warn before discarding drafts.
 - Make times/house context, price/day calculations, balance changes and refund outcomes clear before confirmation.
 - Do not require hover or dragging. Use readable layouts and touch-friendly controls on phones.
-- Latest administrator navigation (2026-11-16): **Calendar / Customers / Balances / Statement / Settings**, ordered by importance, with no ampersands in tab names. Calendar is the administrator entry view. Customers includes pets; Settings contains houses/rooms and a cancellation-policy entry. Personal profile is a secondary account link. Integrate the existing local pages without claiming sample planning data is a real saved booking/balance system.
+- Latest administrator navigation (2026-11-16): **Calendar / Customers / Balances / Settings**, ordered by importance, with no ampersands in tab names. Calendar is the administrator entry view. Customers includes pets; Balances contains Overview and Statement views. Settings contains the cancellation-policy entry; remove Houses and rooms from Settings while retaining its Calendar management action. Personal profile is a secondary account link. Integrate the existing local pages without claiming sample planning data is a real saved booking/balance system.
 - Suggested customer navigation: My pets / Calendar / Packages. Latest approved admin navigation: **House calendar** is the daily destination; **Manage houses & rooms** opens setup in a focused dialog, replacing the separate Houses tab. Room setup remains WIP until implemented and validated.
 
 ## 13. Existing separate workstreams
